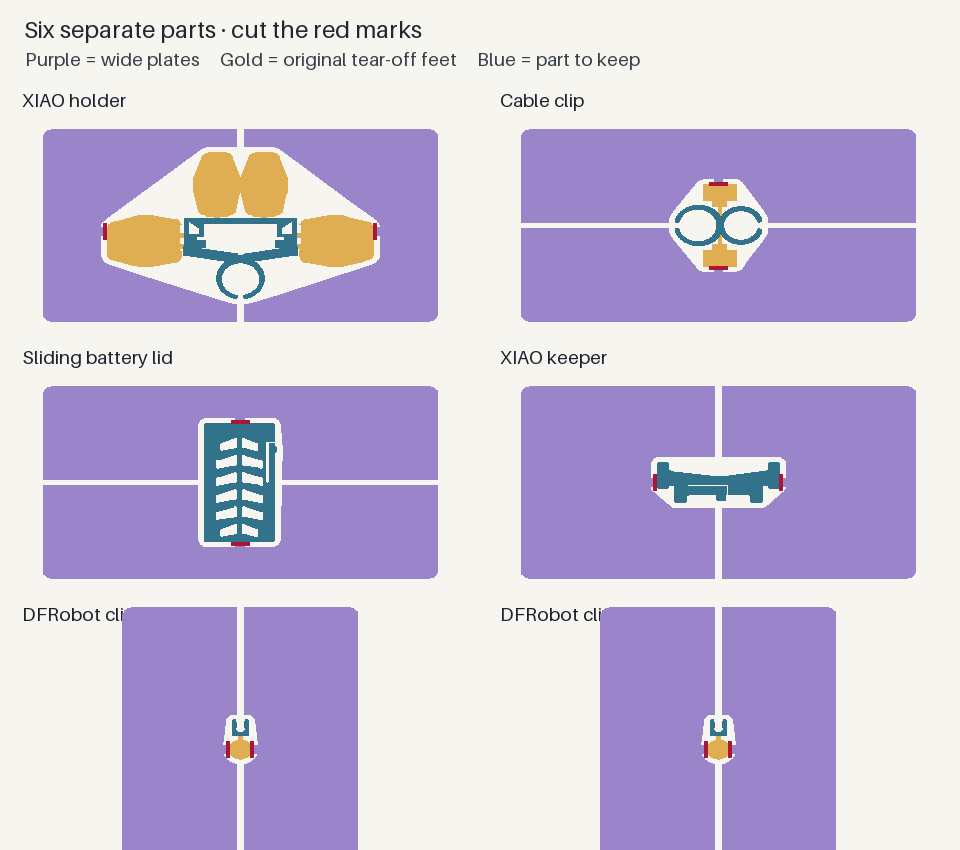
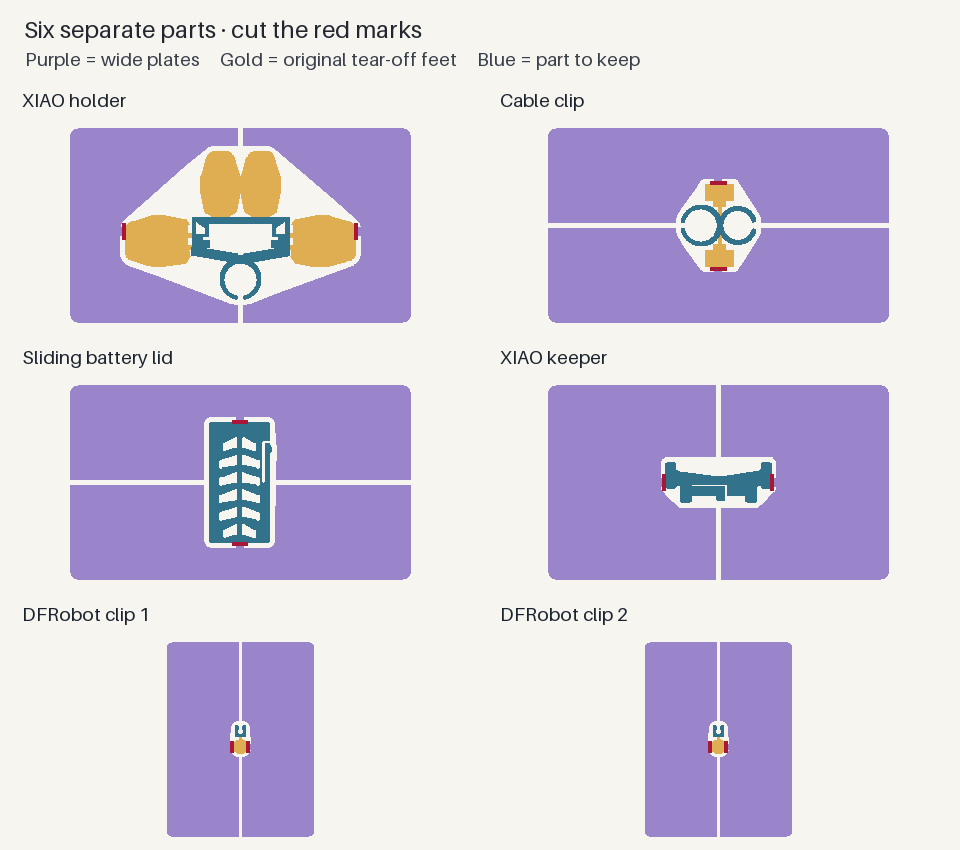
Keep all six removable base diagrams inside their panels

diff --git a/magic-wand/hardware/carbon-rod-holders-r52-snap-seat/wide_base_map52.py b/magic-wand/hardware/carbon-rod-holders-r52-snap-seat/wide_base_map52.py
@@ -21,17 +21,22 @@ def draw(directory):
     title=ImageFont.load_default(size=24); label=ImageFont.load_default(size=19)
     ink.text((24,14),'Six separate parts · cut the red marks',font=title,fill='#22262f')
     ink.text((25,47),'Purple = wide plates     Gold = original tear-off feet     Blue = part to keep',font=label,fill='#39404b')
-    for index,(name,(bed,_,_)) in enumerate(POSITIONS.items()):
+    for index,name in enumerate(POSITIONS):
         row,col=divmod(index,2); rec=data[name]
         x0=col*478+10;y0=(2-row)*257+85
         ink.text((x0+12,y0+3),NAMES[name],font=label,fill='#1c2430')
-        def project(points):
-            xy=np.asarray(points)+rec['translation']-np.asarray(bed)
-            return [(round(x0+230+x*4.7),round(y0+140-y*4.0)) for x,y in xy]
         def mesh(ident):return decode(model.find(f"{tag('resources')}/{tag('object')}[@id='{ident}']"))
-        for ident,color in [(rec['wing_id'],'#9a85ca'),*((i,'#dfae53') for i in rec['old_part_ids'][1:]),(rec['permanent_id'],'#32728b')]:
-            section=mesh(ident).slice(.1)
-            for contour in section.to_polygons():
+        groups=[(rec['wing_id'],'#9a85ca'),*((i,'#dfae53') for i in rec['old_part_ids'][1:]),(rec['permanent_id'],'#32728b')]
+        shapes=[(mesh(ident).slice(.1).to_polygons(),color) for ident,color in groups]
+        points=np.concatenate([contour for contours,_ in shapes for contour in contours])
+        low,high=points.min(axis=0),points.max(axis=0)
+        center=(low+high)/2
+        scale=min(438/(high[0]-low[0]),194/(high[1]-low[1]))
+        def project(points):
+            xy=(np.asarray(points)-center)*scale
+            return [(round(x0+230+x),round(y0+140-y)) for x,y in xy]
+        for contours,color in shapes:
+            for contour in contours:
                 area=np.sum(contour[:,0]*np.roll(contour[:,1],-1)-np.roll(contour[:,0],-1)*contour[:,1])
                 ink.polygon(project(contour),fill=color if area>0 else '#f7f5ef')
         for cut in rec['cuts']:
